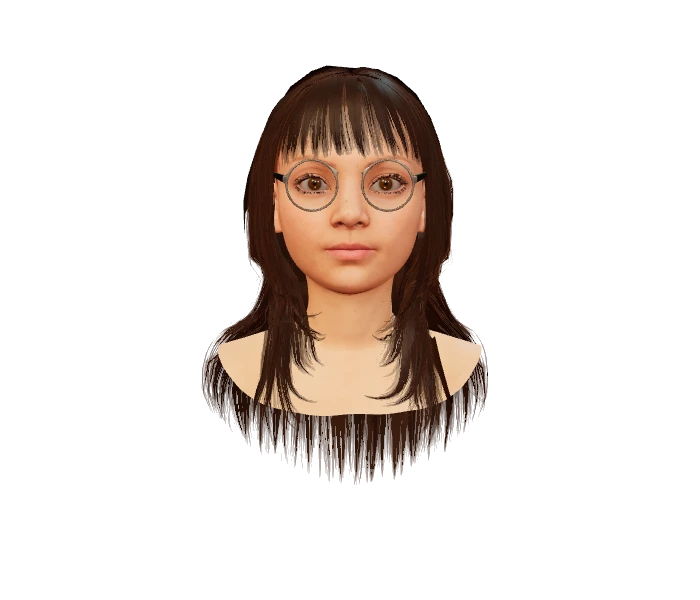
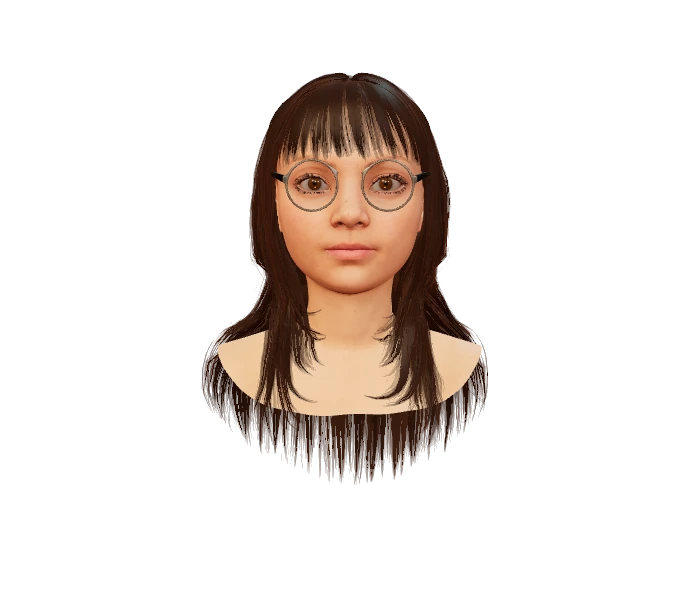
fix(ui): her hair without the dark helmet edge (#130)
* fix(ui): her hair without the dark helmet under the cards

The groom helmet, a low-poly dark cap meant to fill gaps between hair cards,
showed its angular silhouette around her head: HELMET_SCALE was set after
bind and had no effect. Renders at six head turns show the cards cover her
scalp without it, so the helmet leaves the renderer, the packed rig (35 KB)
and the export.

* fix(ui): her portrait without the helmet's dark edge

Re-rendered from the live rig at rest, same 700x600 framing, now that the
helmet is gone.

---------

diff --git a/web/src/ui/avatar/rig/assets.test.ts b/web/src/ui/avatar/rig/assets.test.ts
@@ -1,5 +1,32 @@
+import { readFileSync } from 'node:fs';
+import { resolve } from 'node:path';
 import { describe, expect, it } from 'vitest';
+import type { MeshSection, RigHeader, Section } from './assets.ts';
 import { decode, loadAssets } from './assets.ts';
+
+const her = (file: string) => readFileSync(resolve('public/avatar/her', file));
+const BYTES: Record<Section['type'], number> = {
+  int8: 1,
+  uint8: 1,
+  int16: 2,
+  uint16: 2,
+  uint32: 4,
+  float32: 4,
+};
+
+function sectionsOf(mesh: MeshSection): Section[] {
+  const { position, normal, uv, index, skinIndex, skinWeight, targets, follow } = mesh;
+  return [
+    position,
+    normal,
+    uv,
+    index,
+    skinIndex,
+    skinWeight,
+    ...targets.flatMap((t) => [t.index, t.delta]),
+    ...(follow ? [follow] : []),
+  ];
+}
 
 describe('decode', () => {
   it('scales and offsets each component of a quantized int16 section', () => {
@@ -64,5 +91,22 @@ describe('loadAssets', () => {
     expect([...assets.dna]).toEqual([3]);
     expect(assets.masks.length).toBe(3);
     expect(assets.mapping.jawOpen).toEqual({ jawOpen: 1 });
+  });
+});
+
+describe('her packed rig', () => {
+  const header = JSON.parse(her('rig.json').toString('utf8')) as RigHeader;
+
+  it('dresses her hair in cards alone, with no helmet under them', () => {
+    const names = header.meshes.map((m) => m.name);
+    expect(names).toContain('cards');
+    expect(names).not.toContain('helmet');
+  });
+
+  it('ends the binary at its last section, padded to 16 bytes', () => {
+    const end = Math.max(
+      ...header.meshes.flatMap(sectionsOf).map((s) => s.offset + s.length * BYTES[s.type]),
+    );
+    expect(her('rig.bin').byteLength).toBe(Math.ceil(end / 16) * 16);
   });
 });

diff --git a/web/src/ui/avatar/rig/materials.ts b/web/src/ui/avatar/rig/materials.ts
@@ -11,7 +11,6 @@ const ORDER: Readonly<Record<string, number>> = {
   eyelashes: 1,
   eyeshell: 2,
   saliva: 2,
-  helmet: 2,
   cards: 3,
 };
 
@@ -31,7 +30,7 @@ function loader(base: string) {
 
 function hairMaterials(
   cards: THREE.Texture,
-): Pick<Record<string, THREE.Material>, 'cards' | 'helmet'> & { soft: THREE.Material } {
+): Pick<Record<string, THREE.Material>, 'cards'> & { soft: THREE.Material } {
   const hair = {
     map: cards,
     side: THREE.DoubleSide,
@@ -44,13 +43,6 @@ function hairMaterials(
   return {
     cards: plain({ ...hair, alphaTest: 0.5 }),
     soft: plain({ ...hair, transparent: true, alphaTest: 0.12, depthWrite: false }),
-    helmet: plain({
-      color: 0x24170f,
-      roughness: 0.6,
-      sheen: 0.4,
-      sheenColor: new THREE.Color(0x5a3c2c),
-      specularIntensity: 0.3,
-    }),
   };
 }
 

diff --git a/web/src/ui/avatar/rig/RigAvatar.ts b/web/src/ui/avatar/rig/RigAvatar.ts
@@ -17,7 +17,6 @@ import { wrinkleWeights } from './skin.ts';
 
 const WASM_URL = new URL('./riglogic.wasm', import.meta.url);
 const EXPOSURE = 1.45;
-const HELMET_SCALE = 0.995;
 
 interface LiveMesh {
   data: MeshData;
@@ -117,8 +116,7 @@ export class RigAvatar implements FaceRenderer {
       const material = materials.byMesh[section.name];
       if (!material) continue;
       const data = meshGeometry(assets.bin, section);
-      const mesh = add(data.geometry, material, renderOrderOf(section.name));
-      if (section.name === 'helmet') mesh.scale.setScalar(HELMET_SCALE);
+      add(data.geometry, material, renderOrderOf(section.name));
       if (section.name === 'cards') add(data.geometry, materials.cardsSoft, CARDS_SOFT_ORDER);
       this.track(section.name, data);
     }

diff --git a/web/tools/avatar/metahuman/export/groom.py b/web/tools/avatar/metahuman/export/groom.py
@@ -11,7 +11,6 @@ BROW = np.array([40, 28, 22], np.float32)
 HAIR = np.array([38, 26, 20], np.float32)
 LASH = np.array([34, 22, 17], np.float32)
 HAIR_CARDS = ["hair_g0_s0.json", "hair_g1_s0.json"]
-HELMET_REACH_CM = 3.0
 
 
 def nearest(points, ref):
@@ -44,12 +43,9 @@ def vertex_normals(pos, tris):
     return nrm / np.maximum(np.linalg.norm(nrm, axis=1, keepdims=True), 1e-9)
 
 
-def card_mesh(name, files, ctx, reach=None):
+def card_mesh(name, files, ctx):
     P, U, I = read_cards(ctx["cards"], files)
     near = nearest(P, ctx["arch"])
-    if reach is not None:
-        far = np.linalg.norm(P - ctx["arch"][near], axis=1) > reach
-        I = I[~far[I].any(1)]
     follow = ctx["first"][near]
     head = ctx["head"]
     pos = (ctx["pos"][near] + (P - ctx["arch"][near])).astype(np.float32)
@@ -111,4 +107,4 @@ def groom(src, archetype, head_mesh, out):
     head_color(src, out)
     hair_texture(src, out)
     lashes(src, out)
-    return [card_mesh("cards", HAIR_CARDS, ctx), card_mesh("helmet", ["helmet.json"], ctx, HELMET_REACH_CM)]
+    return [card_mesh("cards", HAIR_CARDS, ctx)]

diff --git a/web/tools/avatar/metahuman/README.md b/web/tools/avatar/metahuman/README.md
@@ -52,7 +52,7 @@ Face project open); they read and write under `C:\mallorca`.
    `ue/rig.py` requests the auto rig (sign in to Epic once when the editor asks).
 3. `ue/export_dcc.py` writes the DCC export (`head.dna`, `Maps`, `Masks`); `ue/synth.py` draws the skin Creator
    synthesizes into render targets (`Synth/BASECOLOR`, `Synth/NORMAL`), because those textures live only on the GPU;
-   `ue/cards.py` and `ue/helmet.py` write the hair cards, the helmet and their textures to `cards/`.
+   `ue/cards.py` writes the hair cards and their texture to `cards/`.
 4. Copy those folders into one local folder (the Creator export) and run, with the OpenRigLogic Python bindings on
    `ORL_PYTHON` and `pip install -r export/requirements.txt`:
 
@@ -72,7 +72,7 @@ exceeds 15 MB.
 
 - `rig.json` and `rig.bin`: controls, joints, animated maps, wrinkle masks and the meshes. Positions, normals and UVs are
   int16, skin weights and blendshape deltas int8, each with a scale and an offset per component; deltas under 0.01 cm are
-  dropped. Hair cards and the helmet carry no blendshapes: `follow` names the head vertex each card vertex moves with.
+  dropped. Hair cards carry no blendshapes: `follow` names the head vertex each card vertex moves with.
 - `behavior.dna` for RigLogic, `masks.r8` (the wrinkle masks, 128 px each, channels in `export/mask_channels.json`),
   `mapping.json` (ARKit and viseme weights to MetaHuman controls, `export/controls.py`), the textures and `glasses/`.
 
